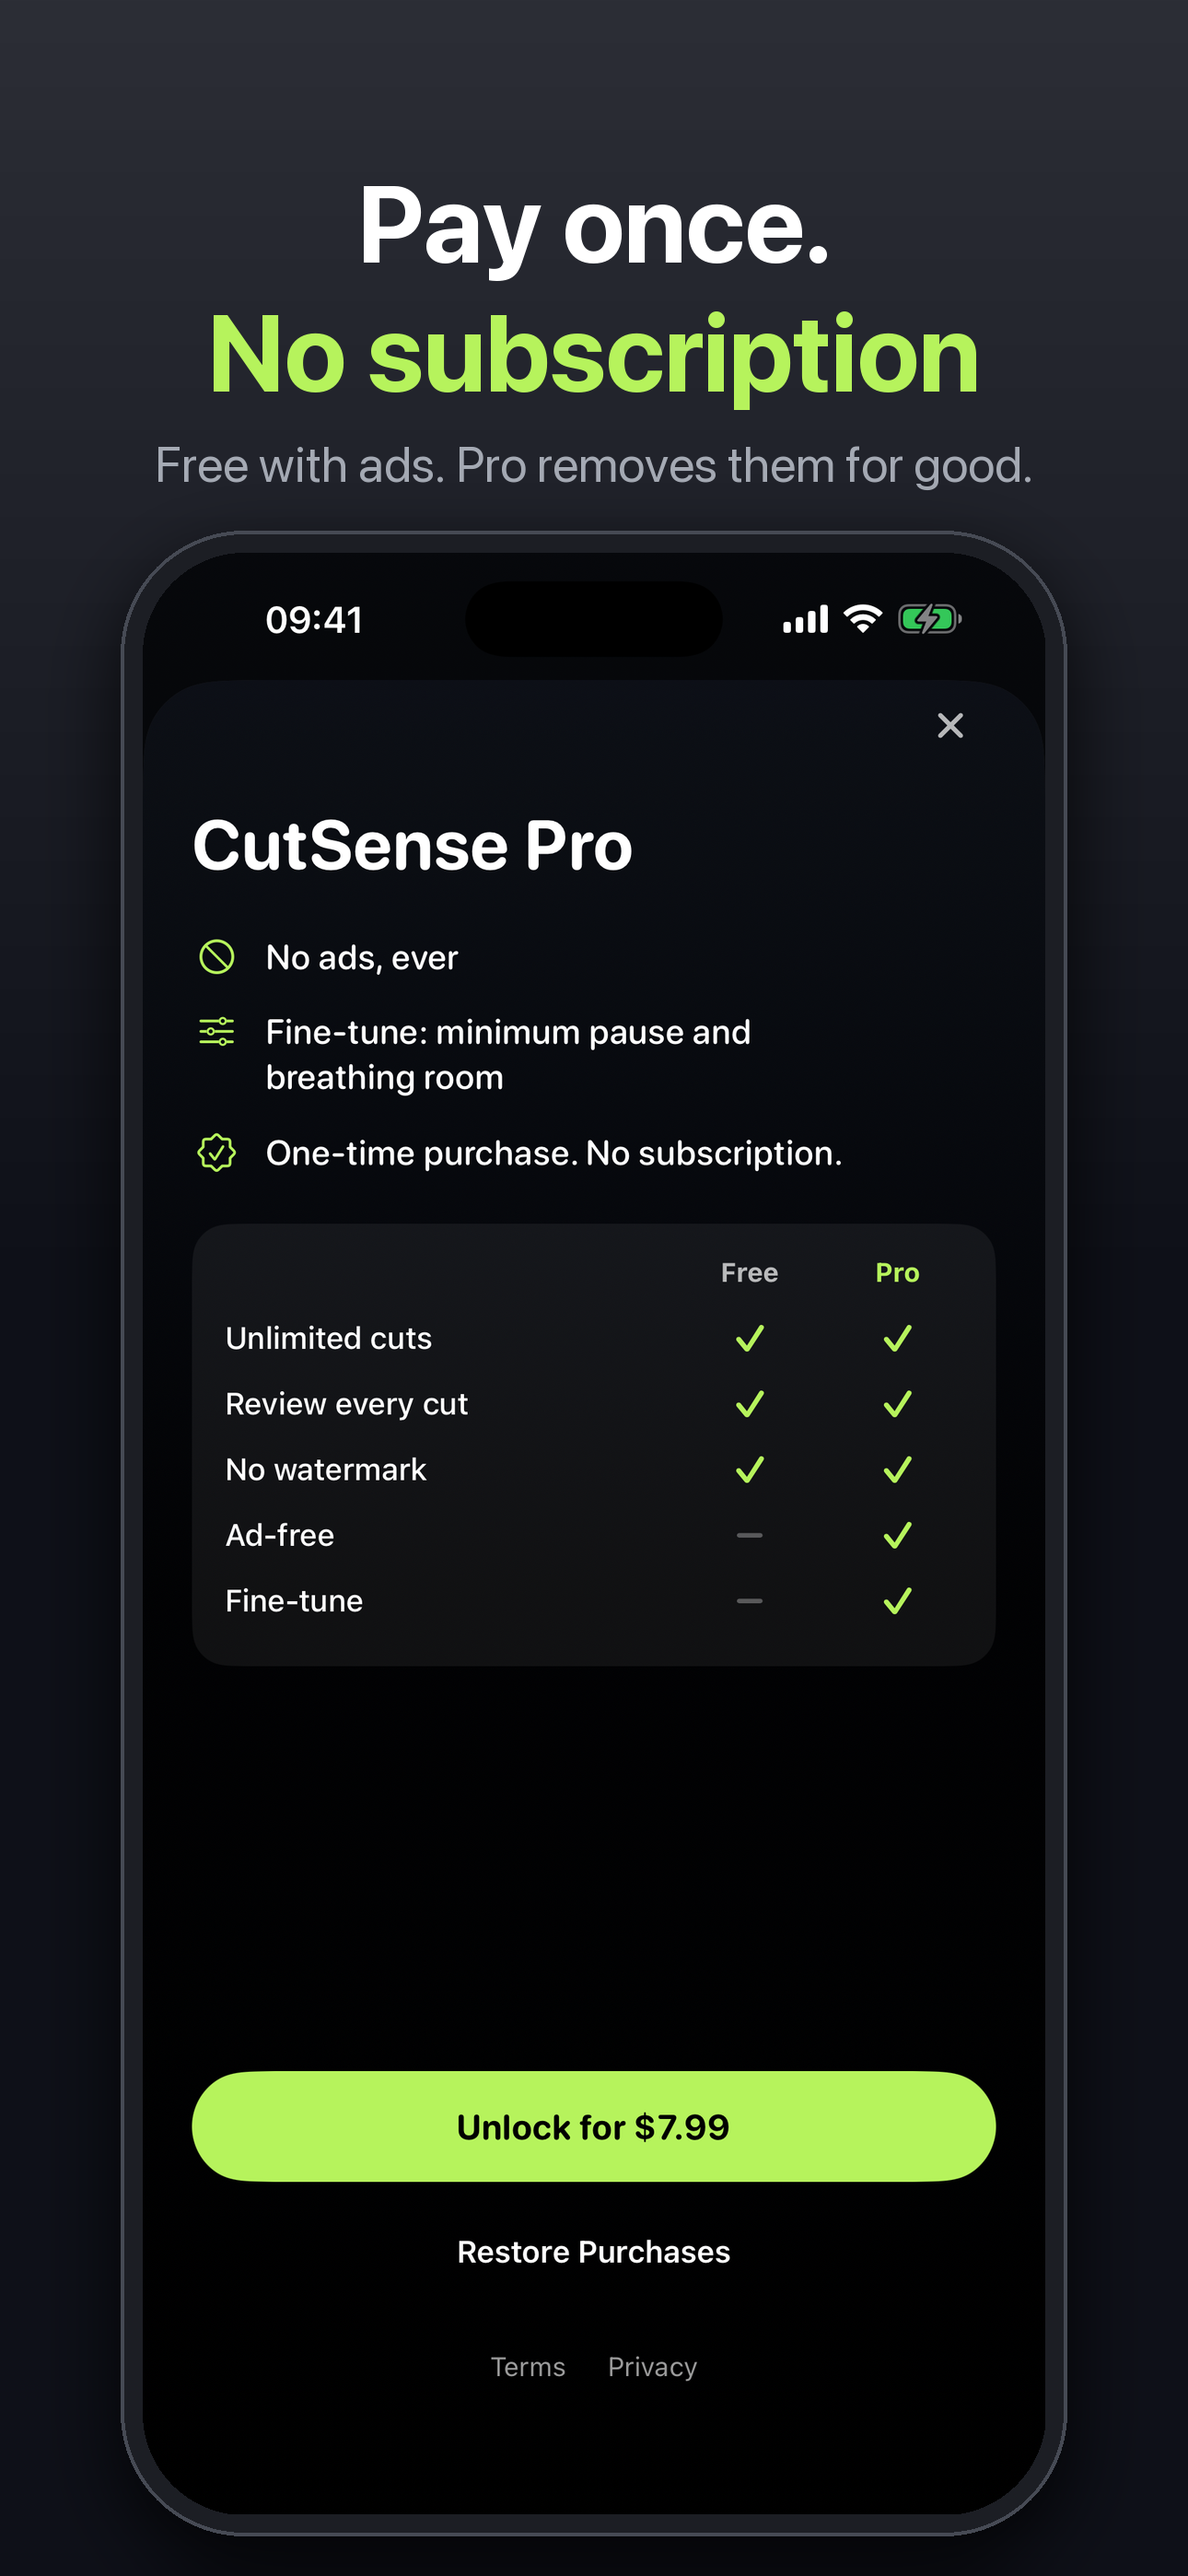
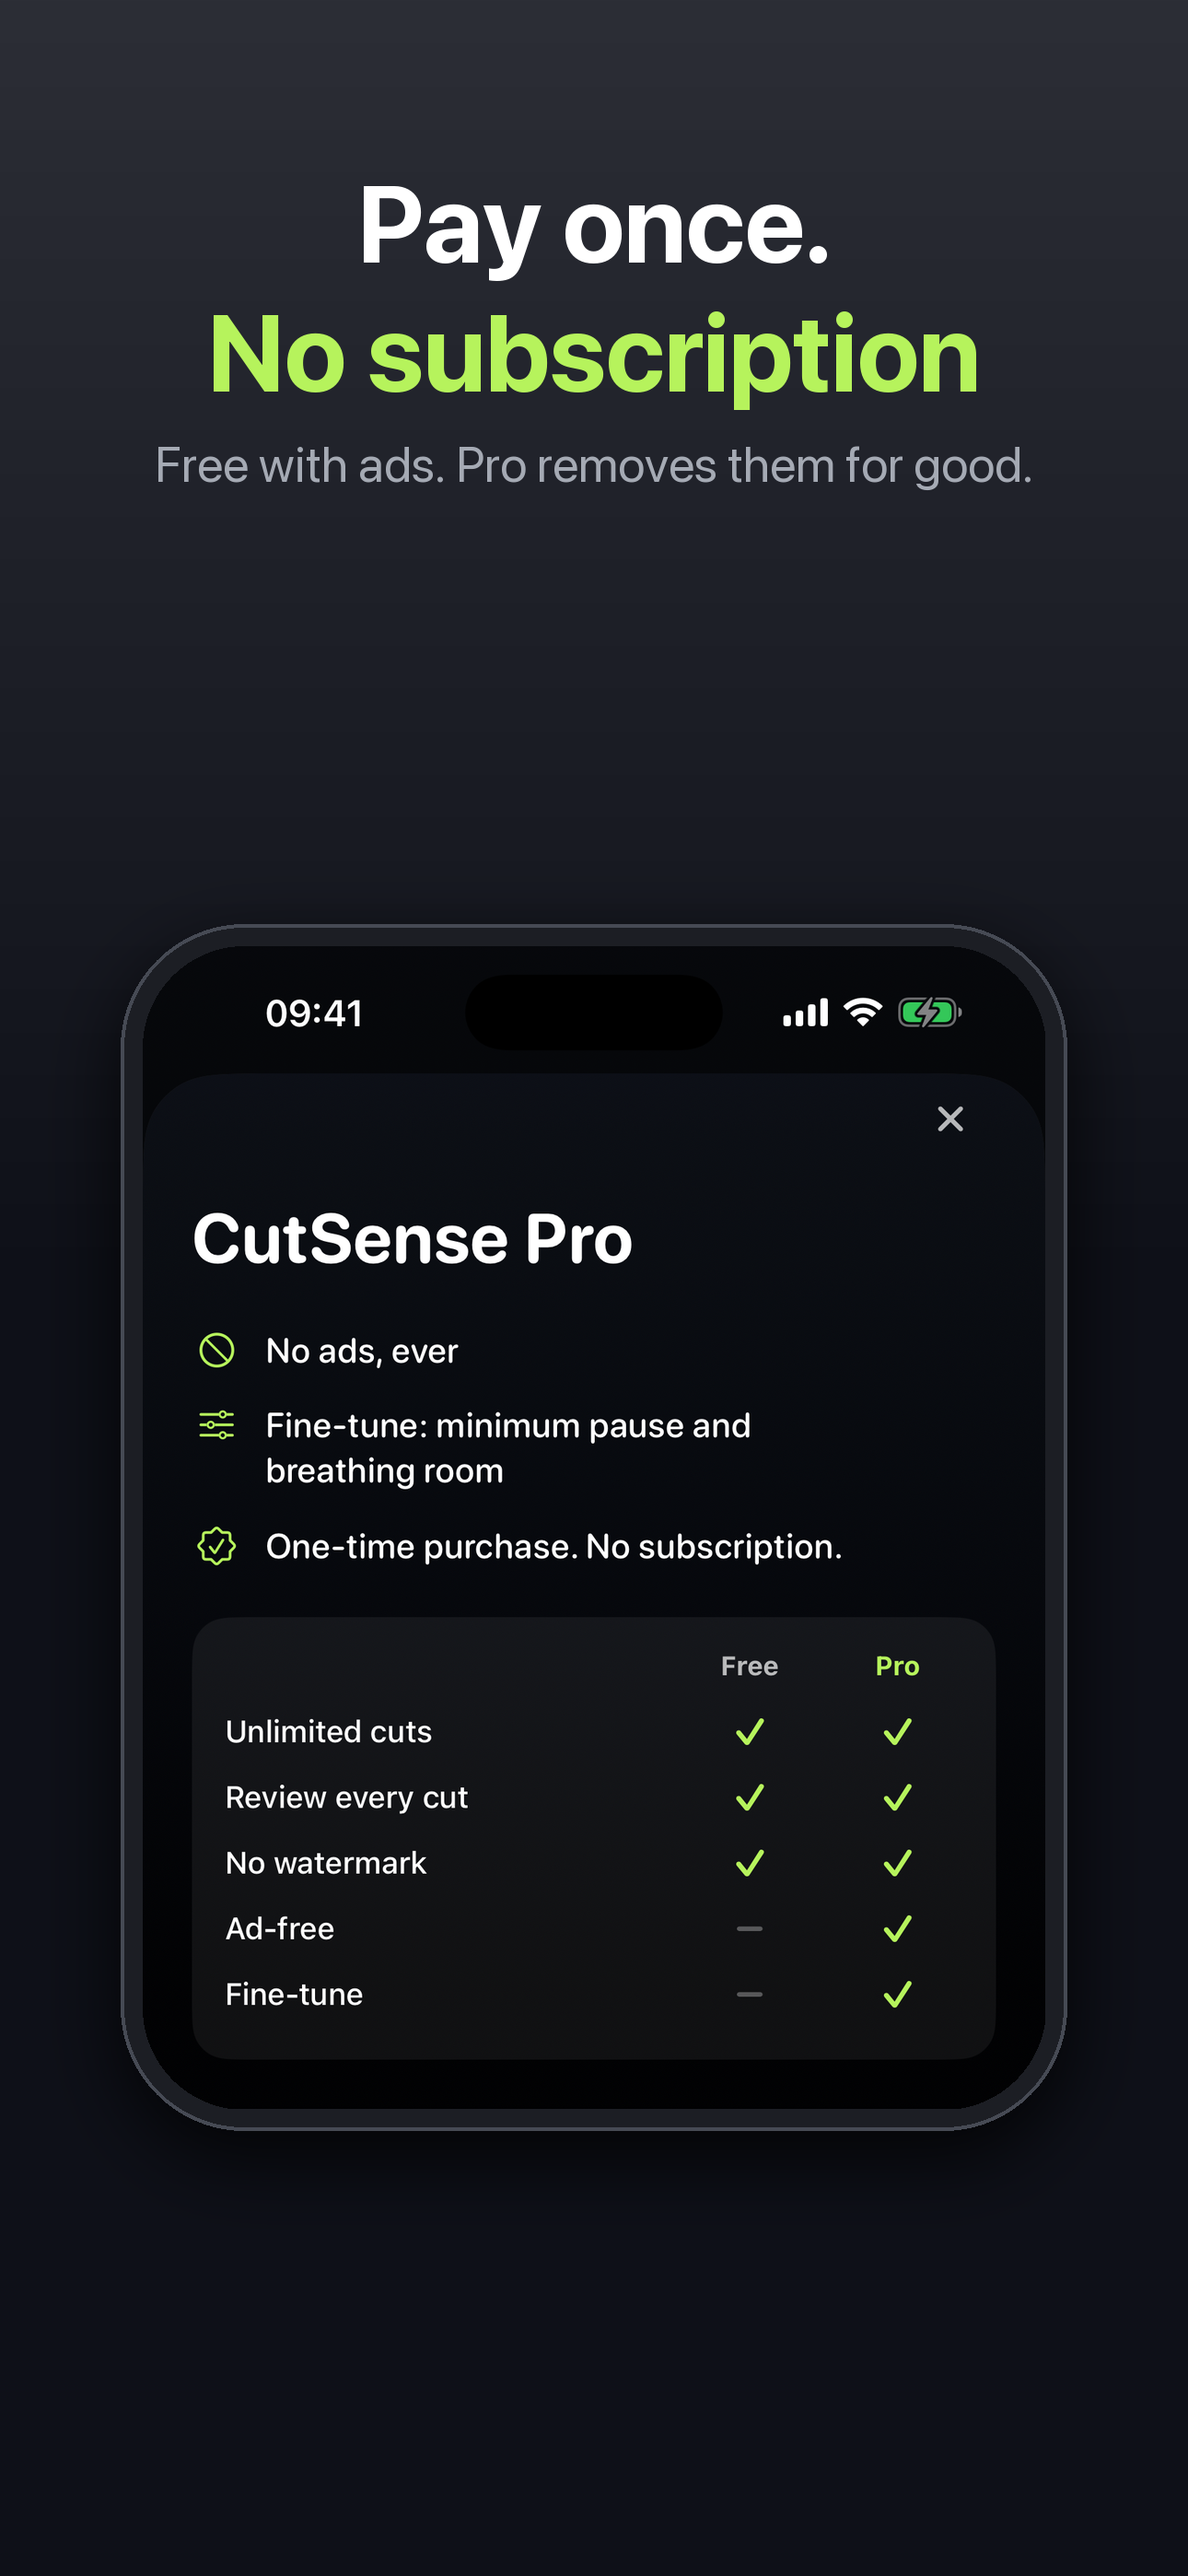
Final review fixes: Pro entry always reachable, entitlements before ads/consent, hint only on presets, guarded plan setter; build 32; price-free Pro screenshot

diff --git a/ios/CutSense/QuickSilence/QuickSilenceView.swift b/ios/CutSense/QuickSilence/QuickSilenceView.swift
@@ -64,7 +64,7 @@ struct QuickSilenceView: View {
             if case .review = phase, let current = plan, let inputURL = session.inputURL {
                 // Not Binding($plan): its force-unwrap crashes when New Video clears the plan while
                 // the review screen is still updating on the way out.
-                review(plan: Binding(get: { plan ?? current }, set: { plan = $0 }), inputURL: inputURL)
+                review(plan: Binding(get: { plan ?? current }, set: { if plan != nil { plan = $0 } }), inputURL: inputURL)
                     .padding(.horizontal, 16)
                     .padding(.bottom, 8)
             } else {
@@ -151,6 +151,8 @@ struct QuickSilenceView: View {
             replan()
         }
         .task {
+            // Entitlements first, so a returning Pro owner never sees the consent form or ad preload.
+            await ProStore.shared.refresh()
             if AdMobService.isEnabled {
                 rewardedAd.preload()
                 await AdMobService.waitForConsentConfiguration()
@@ -267,6 +269,7 @@ struct QuickSilenceView: View {
             inputURL: inputURL,
             plan: plan,
             intensity: $cutIntensity,
+            usesPresetSettings: cutSettings == QuickSilenceEngine.CutSettings(cutIntensity),
             preview: preview,
             language: appLanguage,
             exportProgress: exportProgress,

diff --git a/ios/CutSense/QuickSilence/ReviewScreen.swift b/ios/CutSense/QuickSilence/ReviewScreen.swift
@@ -99,6 +99,7 @@ struct ReviewScreen: View {
     let inputURL: URL
     @Binding var plan: QuickSilenceEngine.CutPlan
     @Binding var intensity: QuickSilenceEngine.CutIntensity
+    let usesPresetSettings: Bool
     let preview: PreviewPlayer
     let language: AppLanguage
     let exportProgress: Double?
@@ -217,10 +218,11 @@ struct ReviewScreen: View {
     }
 
     private var hint: String? {
-        guard plan.removedPercent > 60 || (intensity == .balanced && plan.removedPercent > 50) else { return nil }
-        if intensity == .balanced {
+        let lowSpeech = intensity == .balanced && usesPresetSettings && plan.removedPercent > 50
+        if lowSpeech {
             return appText(language, "Bu videonun çoğunda konuşma yok. CutSense en iyi konuşmalı videolarda çalışır.", "Most of this video has no speech. CutSense works best on talking videos.")
         }
+        guard plan.removedPercent > 60, intensity != .balanced else { return nil }
         return appText(language, "Çok mu kesildi? Dengeli'yi dene.", "Too much cut? Try Balanced.")
     }
 

diff --git a/ios/CutSense/UI/SettingsScreen.swift b/ios/CutSense/UI/SettingsScreen.swift
@@ -50,7 +50,8 @@ struct SettingsScreen: View {
             Section {
                 LabeledContent(t("Durum", "Status"),
                                value: store.isPro ? t("Açık", "Unlocked") : t("Ücretsiz sürüm", "Free version"))
-                if store.canOfferPro {
+                // Always reachable for non-Pro users so App Review can find the IAP even if the product loads late.
+                if !store.isPro {
                     Button(t("Pro'yu Aç", "Unlock Pro")) { showsPaywall = true }
                 }
                 Button {

diff --git a/ios/metadata/screenshots/compose.py b/ios/metadata/screenshots/compose.py
@@ -21,7 +21,7 @@ def shot(raw,lines,sub,out):
     # device
     im=Image.open(raw).convert('RGB'); dw=980; dh=int(im.height*dw/im.width)
     im=im.resize((dw,dh),Image.LANCZOS)
-    top=y+150; r=110
+    top=y+150; top+=max(0,(H-top-dh-80)//2); r=110  # center short frames in the remaining space
     mask=Image.new('L',(dw,dh),0); ImageDraw.Draw(mask).rounded_rectangle([0,0,dw,dh],r,fill=255)
     bez=24; frame=Image.new('RGBA',(dw+2*bez,dh+2*bez),(0,0,0,0))
     ImageDraw.Draw(frame).rounded_rectangle([0,0,dw+2*bez-1,dh+2*bez-1],r+bez,fill=(28,30,36,255),outline=(70,74,84,255),width=4)
@@ -35,4 +35,4 @@ def shot(raw,lines,sub,out):
 shot(f'{S}/raw_review.png',[('32s video,',False),('20s result',True)],'Free. No watermark. No sign-up.',f'{S}/store/01_review.png')
 shot(f'{S}/raw_cuts.png',[('Review',False),('every cut',True)],'Keep any pause you want before saving.',f'{S}/store/02_cuts.png')
 shot(f'{S}/raw_home.png',[('Private',False),('by design',True)],'Your video never leaves your iPhone.',f'{S}/store/03_home.png')
-shot(f'{S}/raw_paywall.png',[('Pay once.',False),('No subscription',True)],'Free with ads. Pro removes them for good.',f'{S}/store/04_pro.png')
+shot(f'{S}/raw_paywall_crop.png',[('Pay once.',False),('No subscription',True)],'Free with ads. Pro removes them for good.',f'{S}/store/04_pro.png')
